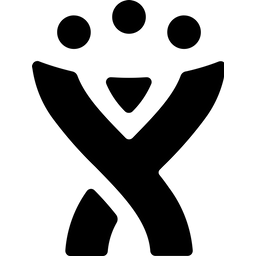
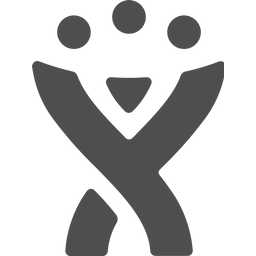
E-mail test

diff --git a/src/server/server.ts b/src/server/server.ts
@@ -31,6 +31,7 @@ import { ProjectDataModel } from "./models/project-data-model";
 import { NotifyRequester } from "./requesters/notify-requester";
 import { StatsRequester } from "./requesters/stats-requester";
 import { StatsController } from "./controllers/stats-controller";
+import { NotifyController } from "./controllers/notify-controller";
 dotenv.config();
 
 const isDevelopment = !!process.env.NITS_DEVEL_ACCOUNT;
@@ -61,6 +62,8 @@ const userController = new UserController(uuUserModel, userDataModel, projectCon
 const jiraController = new JiraController(userDataModel, crypt, projectConfig);
 const projectController = new ProjectController(projectDataModel, jiraApi);
 const statsController = new StatsController(userDataModel, jiraModel, (acc1, acc2) => new ReadOnlyTimesheetModel(acc1, acc2, uuUserModel, new WtmApi()));
+const notifyController = new NotifyController(projectConfig);
+
 // Requests
 const loginAuthorizer = new LoginAuthorizer(userController);
 const loginAuthorize = loginAuthorizer.loginAuthorize.bind(loginAuthorizer);
@@ -76,7 +79,7 @@ const syncController = new SyncController(
 );
 const syncRequester = new SyncRequester(syncController);
 const projectReqester = new ProjectRequester(projectController);
-const notifyRequester = new NotifyRequester(userController);
+const notifyRequester = new NotifyRequester(userController, notifyController);
 const statsRequester = new StatsRequester(statsController);
 
 const app = express();
@@ -113,6 +116,7 @@ const methods: IServerMethod[] = [
     m("get", "/server/jira/oauth", jiraRequester.oauth.bind(jiraRequester)),
     m("get", "/server/sync", syncRequester.sync.bind(syncRequester), undefined, { formatOutput: true }),
     m("post", "/server/notify/set", notifyRequester.setNotificationEmail.bind(notifyRequester), loginAuthorize),
+    m("post", "/server/notify/test", notifyRequester.testEmail.bind(notifyRequester), loginAuthorize),
     m("get", "/server/user-stats/get", statsRequester.getUserStats.bind(statsRequester), loginAuthorize),
 
     // admin commands

diff --git a/src/web/pages/notify-settings-page.tsx b/src/web/pages/notify-settings-page.tsx
@@ -10,6 +10,7 @@ import { IUserPublicData } from "../../common/interfaces";
 export const NotifySettingsPage = () => {
     const [email, setEmail] = useState<string>(null);
     const [isLoading, setIsLoading] = useState(false);
+    const [isTesting, setIsTesting] = useState(false);
     const ajax = useAjax();
     const history = useHistory();
 
@@ -39,6 +40,17 @@ export const NotifySettingsPage = () => {
         saveData();
     };
 
+    const onTest = async () => {
+        setIsTesting(true);
+        const res = await ajax.post<boolean>("/server/notify/test", { email });
+        setIsTesting(false);
+        if (res.isOk) {
+            thisApp().toast("Odesláno");
+        } else {
+            thisApp().toast("Zprávu se neporařilo odeslat", "error");
+        }
+    };
+
     useEffect(() => {
         loadData();
     }, []);
@@ -64,7 +76,17 @@ export const NotifySettingsPage = () => {
                         />
 
                         <Box display="flex">
-                            <Box flexGrow={1}></Box>
+                            <Box flexGrow={1}>
+                                {isTesting ? (
+                                    <Box pt={2} width={210}>
+                                        <LinearProgress />
+                                    </Box>
+                                ) : (
+                                    <Button variant="contained" color="secondary" onClick={onTest}>
+                                        Poslat testovací zprávu
+                                    </Button>
+                                )}
+                            </Box>
                             <Box>
                                 <Button variant="contained" color="primary" type="submit">
                                     Uložit
@@ -77,7 +99,6 @@ export const NotifySettingsPage = () => {
                     </form>
                 </div>
             )}
-            {/* {JSON.stringify(userData)} */}
         </>
     );
 };

diff --git a/src/server/controllers/notify-controller.ts b/src/server/controllers/notify-controller.ts
@@ -1,0 +1,32 @@
+import nodemailer from "nodemailer";
+import { IProjectConfig } from "../project-config";
+
+export class NotifyController {
+    constructor(private projectConfig: IProjectConfig) {}
+
+    public async testEmail(email: string): Promise<void> {
+        if (!this.projectConfig.email.user || !this.projectConfig.email.password) {
+            throw new Error("E-mailing is not active. Credentials must be set.");
+        }
+        return new Promise((resolve) => {
+            console.log(`Sending to ${email}`);
+            const transporter = nodemailer.createTransport({
+                service: "gmail",
+                auth: {
+                    user: this.projectConfig.email.user,
+                    pass: this.projectConfig.email.password,
+                },
+            });
+            const mailOptions = {
+                from: this.projectConfig.email.sender || this.projectConfig.email.user,
+                to: email,
+                subject: "NITS: testovací zpráva",
+                text: "Toto je testovací zpráva z NITS. Zdá se, že vše funguje.",
+            };
+
+            transporter.sendMail(mailOptions, function (error: any, info: any) {
+                resolve(error || info.response);
+            });
+        });
+    }
+}

diff --git a/src/server/requesters/notify-requester.ts b/src/server/requesters/notify-requester.ts
@@ -1,14 +1,19 @@
 import { Request } from "express";
+import { NotifyController } from "../controllers/notify-controller";
 import { UserController } from "../controllers/user-controller";
 import { BaseRequester } from "./base-requester";
 
 export class NotifyRequester extends BaseRequester {
-    constructor(private userController: UserController) {
+    constructor(private userController: UserController, private notifyController: NotifyController) {
         super();
     }
 
     public async setNotificationEmail(req: Request): Promise<void> {
         const uid = this.getUid(req);
         await this.userController.setNotificationEmail(uid, req.body.email);
+    }
+
+    public async testEmail(req: Request): Promise<void> {
+        await this.notifyController.testEmail(req.body.email as string);
     }
 }

diff --git a/src/server/project-config.ts b/src/server/project-config.ts
@@ -10,6 +10,11 @@ export interface IProjectConfig {
         clientSecret: string;
         cloudId: string;
     };
+    email: {
+        user: string;
+        password: string;
+        sender: string;
+    };
 }
 export class ProjectConfigurer {
     public getProjectConfig(): IProjectConfig {
@@ -28,6 +33,11 @@ export class ProjectConfigurer {
                     clientId: process.env.NITS_JIRA_CLIENT_ID,
                     clientSecret: process.env.NITS_JIRA_SECRET,
                     cloudId: process.env.NITS_JIRA_CLOUD_ID,
+                },
+                email: {
+                    user: process.env.NITS_EMAIL_USER,
+                    password: process.env.NITS_EMAIL_PASS,
+                    sender: process.env.NITS_EMAIL_SENDER,
                 },
             };
 

diff --git a/src/web/components/alert.tsx b/src/web/components/alert.tsx
@@ -33,7 +33,7 @@ export const Alert = (props: IAlertProps) => {
     }, [props]);
 
     const handleClose = () => {
-        props?.onClose();
+        props.onClose && props.onClose();
         setOpen(false);
     };
     const stack = typeof props.stack === "string" ? props.stack : JSON.stringify(props.stack, null, 2);

diff --git a/src/web/app.tsx b/src/web/app.tsx
@@ -16,6 +16,13 @@ const theme = createTheme({
     typography: {
         fontSize: 13,
     },
+    overrides: {
+        MuiButton: {
+            contained: {
+                color: "rgb(78,78,78)",
+            },
+        },
+    },
 });
 
 const pages = {
